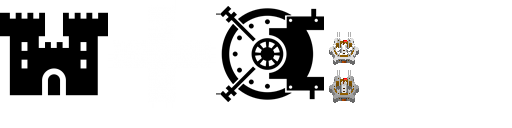
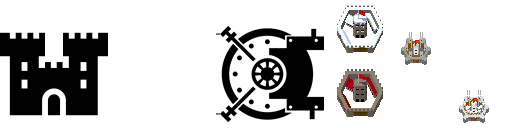
Some rebalancing changes, added new Alpine fortress images for HexaRealm tileset

diff --git a/credits.md b/credits.md
@@ -4,4 +4,13 @@ Castle by Freepik on flaticon.com for Alpine Fort icon
 
 Security by Leremy on flaticon.com for Vault icon
 
-Alpine Fort tile based on Citadel tile from FantasyHex tileset
+Pike by edt.im on flaticon.com for "Push of Pike" icon
+
+Alpine Fortress tiles based on Citadel and Fort tiles from:
+- FantasyHex tileset
+	- License: Creative Commons Attribution v4.0 International
+	- Original author: [CuddlyClover](https://cuddlyclover.itch.io/fantasy-hex-tiles)
+	- Contributors: Bucketeer, GeneralWadaling
+- HexaRealm tileset
+	- License: Creative Commons 3.0
+	- Contributors: Bucketeer, GeneralWadaling
